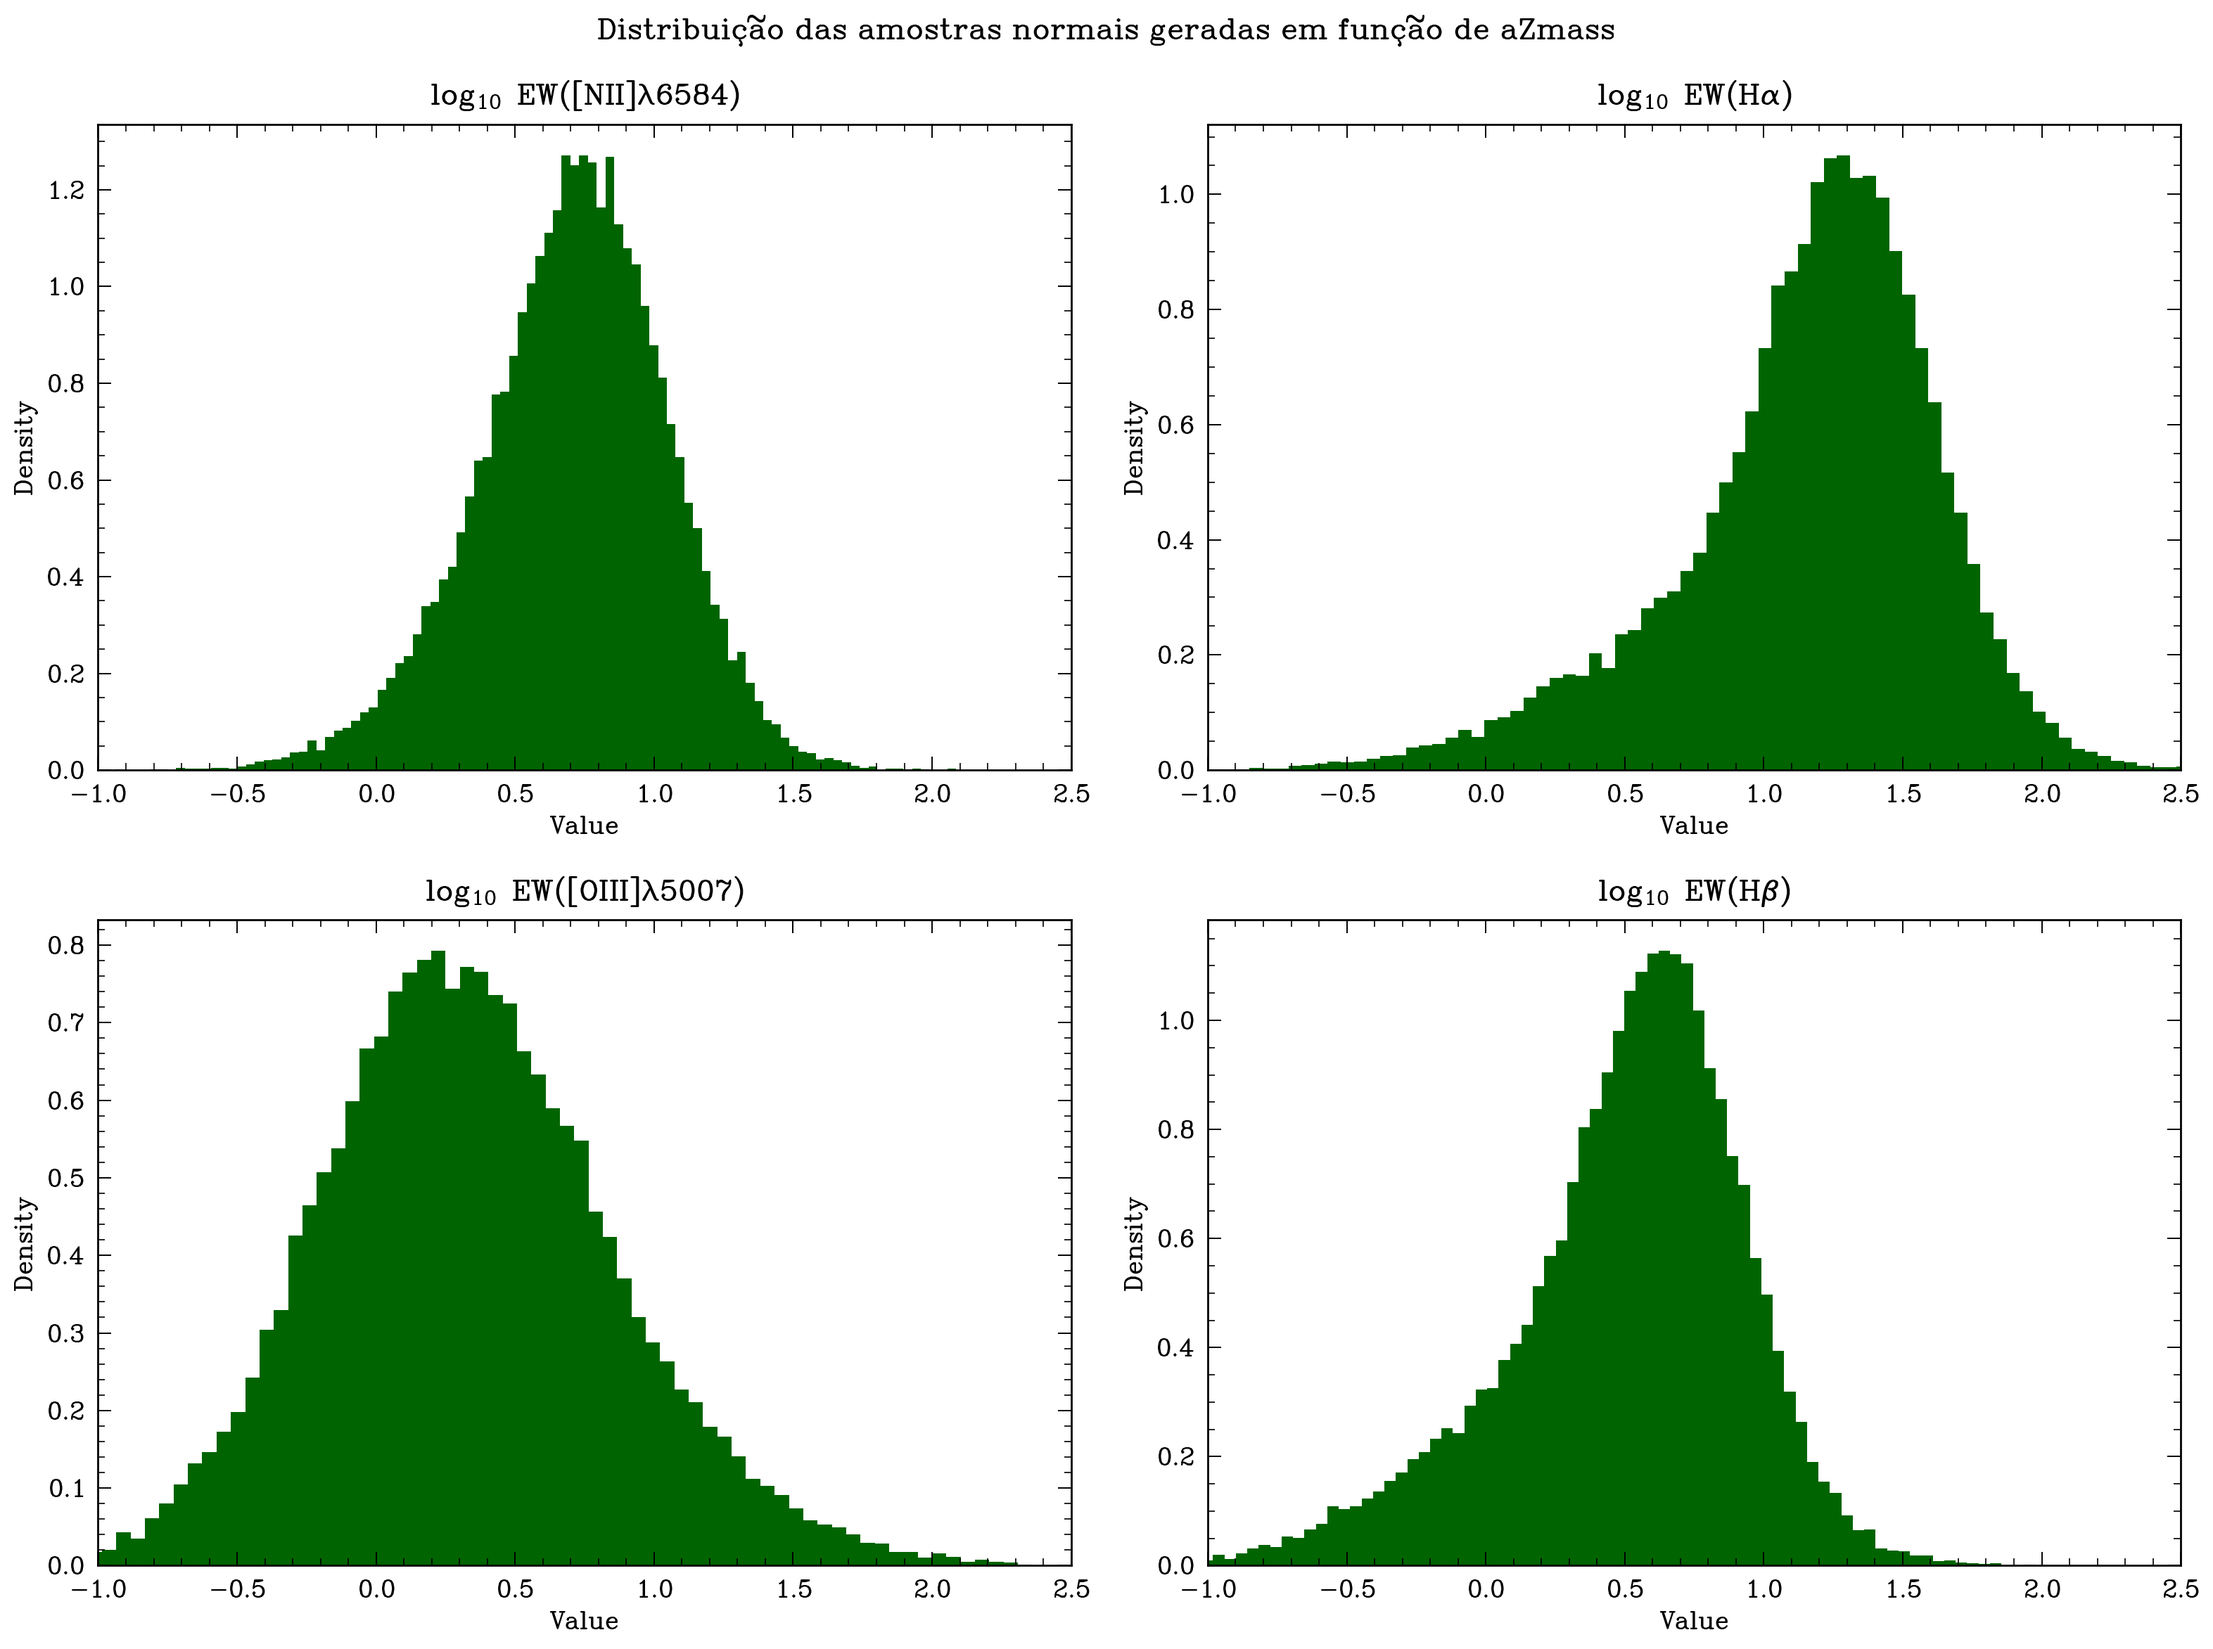
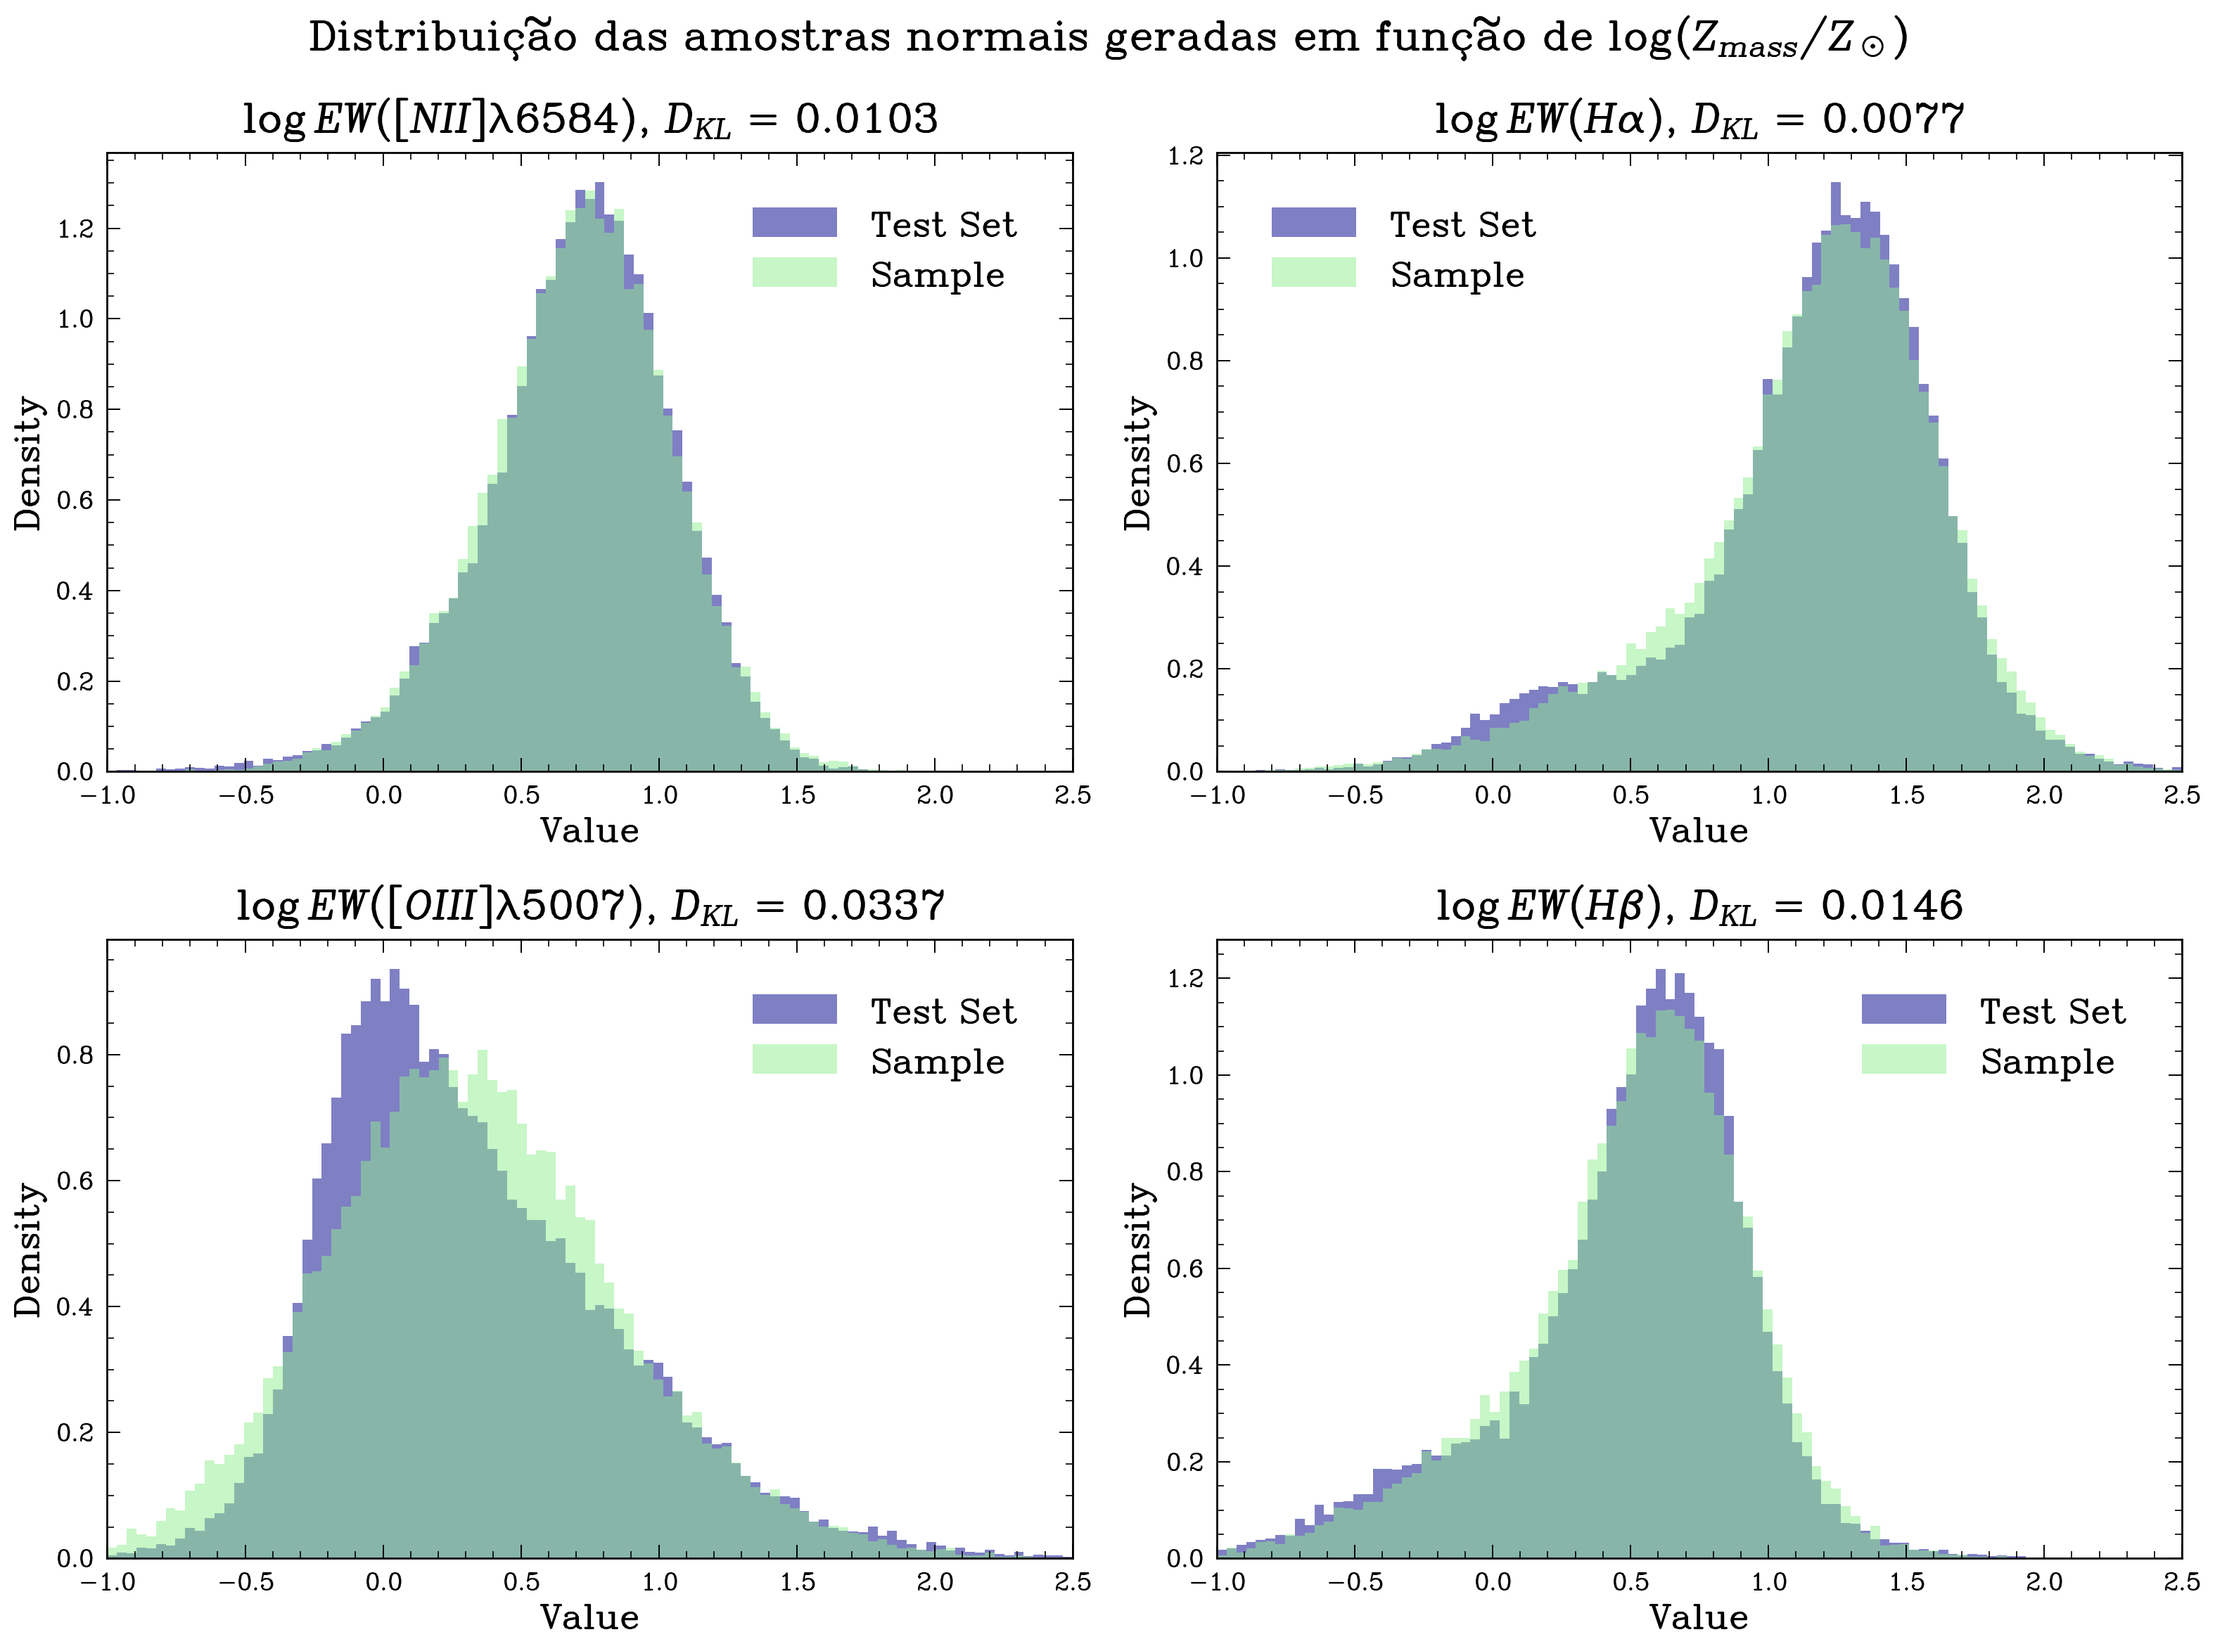
Divergência KL

diff --git a/metricas_plots.py b/metricas_plots.py
@@ -13,7 +13,6 @@ import plotly.io as pio
 from scipy import stats
 from scipy.special import gammaln
 from scipy.optimize import minimize
-from sklearn.preprocessing import StandardScaler
 from sklearn.linear_model import QuantileRegressor
 from sklearn.model_selection import train_test_split
 from sklearn.metrics import mean_squared_error, r2_score
@@ -83,8 +82,8 @@ class PlotsMetricas(object):
         return self.targets
 
     def setUnidades(self):
-        self.unidades[T.nii.value] = r"$ \log EW([NII]6584) $"
-        self.unidades[T.oiii.value] = r"$ \log EW([OIII]5007) $"
+        self.unidades[T.nii.value] = r"$ \log EW([NII]\lambda 6584) $"
+        self.unidades[T.oiii.value] = r"$ \log EW([OIII]\lambda 5007) $"
         self.unidades[T.ha.value] = r"$ \log EW(H\alpha) $"
         self.unidades[T.hb.value] = r"$ \log EW(H\beta) $"
         self.unidades[F.atflux.value] = r"$ \log t_{\text{flux}} $"
@@ -918,13 +917,23 @@ class PlotsMetricas(object):
         plt.ylabel(y.name)
         plt.show()
 
-    def histogram_v(self, dados, title, ax, density=True, lim=None, cor=None, bins=100):
-        ax.set_xlabel("Value")
-        ax.set_ylabel("Density")
+    def histogram_v(
+        self, dados, title, ax, bins, density=True, lim=None, cor=None, lbl=""
+    ):
+        ax.set_xlabel("Value", fontsize="x-large")
+        ax.set_ylabel("Density", fontsize="x-large")
         if lim is not None:
             ax.set_xlim(lim)
-        ax.hist(dados.astype("float"), bins=bins, density=density, color=cor)
-        ax.set_title(title)
+        ax.hist(
+            dados.astype("float"),
+            bins=bins,
+            density=density,
+            color=cor,
+            label=lbl,
+            alpha=0.5,
+        )
+        ax.set_title(title, fontsize="xx-large")
+        ax.legend(fontsize="x-large")
 
     def histogram_h(self, dados, title, density=False, lim=None, cor=None, bins=100):
         plt.subplots(figsize=(5 * self.phi, 5))
@@ -936,6 +945,15 @@ class PlotsMetricas(object):
         plt.tight_layout()
         plt.title(title)
         plt.show()
+
+    def calcula_kl(self, reais, amostras, col, bins):
+        eps = 1e-9
+        p_counts, _ = np.histogram(reais[col], bins=bins)
+        q_counts, _ = np.histogram(amostras[col], bins=bins)
+        p = p_counts / p_counts.sum() + eps
+        q = q_counts / q_counts.sum() + eps
+        kl = np.sum(p * np.log(p / q))
+        return kl
 
     def filtra_median(self, df_median, filtro):
         df_median = df_median[
@@ -1442,11 +1460,11 @@ class PlotsMetricas(object):
                 "<h1>Equações dos modelos Operon para os estimadores da Normal</h1>\n"
             )
             for nome_modelo, modelo in modelos.items():
-                complexidade = modelo.stats_["model_complexity"]
+                complexy = modelo.stats_["model_complexity"]
                 r2_score = modelo.stats_["model_r2"]
                 bic_score = int(modelo.stats_["model_bic"])
                 f.write(f"<h3>{nome_modelo.upper()}</h3>\n")
-                f.write(f"<p>Complexidade: {complexidade} | R²: {r2_score:.4f} | BIC: {bic_score}</p>\n")
+                f.write(f"<p>Complexidade: {complexy} | R²: {r2_score:.4f} | BIC: {bic_score}</p>\n")
                 buf = StringIO()
                 with contextlib.redirect_stdout(buf):
                     self.mostrar_equacao(modelo, col_x)
